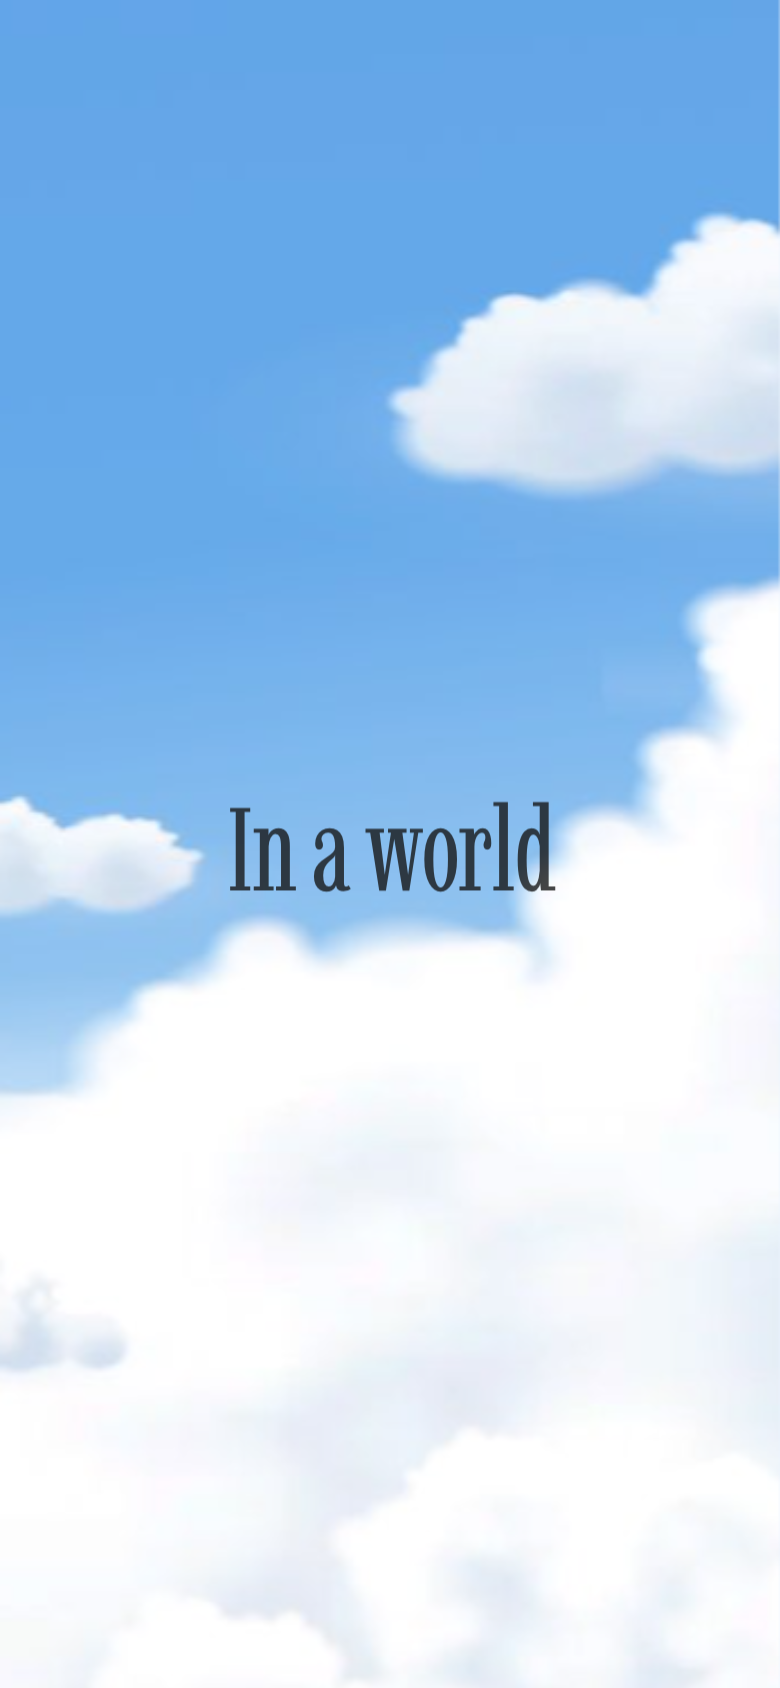
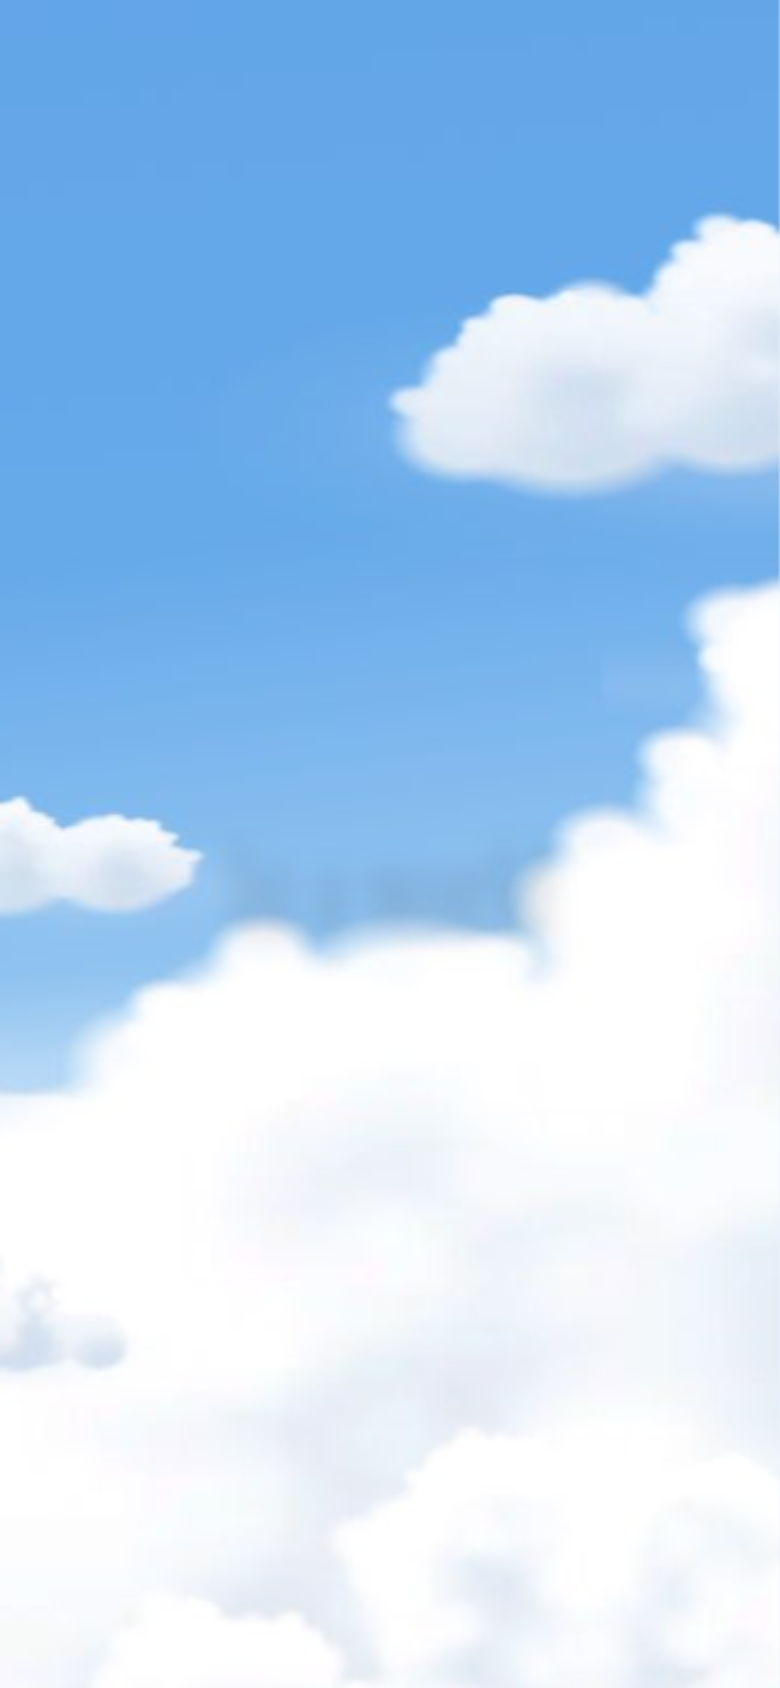
Intro text: on-scroll reveal with fade, rise and blur

Changed region(s): [[0.4, 0.4621, 0.7077, 0.5545], [0.2769, 0.4621, 0.3692, 0.5545]]

diff --git a/src/styles/sections/intro.css b/src/styles/sections/intro.css
@@ -79,7 +79,11 @@
 }
 
 @keyframes intro-fade-in { from { opacity: 0; } to { opacity: 1; } }
-@keyframes intro-rise-in { from { opacity: 0; transform: translateY(var(--shift-intro-part)); } to { opacity: 1; transform: none; } }
+@keyframes intro-part-in {
+  from { opacity: 0; transform: translateY(var(--shift-intro-part)); filter: blur(var(--blur-intro-part)); }
+  to { opacity: 1; transform: translateY(0); filter: blur(0); }
+}
+@keyframes intro-part-out { from { opacity: 1; } to { opacity: 0; } }
 @keyframes hint-wheel { 0% { transform: translateY(0); opacity: 1; } 70% { transform: translateY(var(--size-hint-travel)); opacity: 0; } 100% { transform: translateY(0); opacity: 0; } }
 @keyframes hint-swipe { 0% { transform: translateY(var(--size-hint-travel)); opacity: 0; } 30% { opacity: 1; } 100% { transform: translateY(0); opacity: 0; } }
 
@@ -90,13 +94,14 @@
 
   .js .intro__lines { display: grid; width: 100%; font-size: var(--text-display); }
 
-  /* Every part sits in the same spot. scroll.js fades them in and out with scroll;
-     until it runs, only the first part shows. */
-  .js .intro__part { grid-area: 1 / 1; align-self: center; opacity: 0; will-change: transform, opacity; }
-  .js .intro__part:first-child { opacity: 1; }
+  /* Every part sits in the same spot and is hidden until intro.js marks it.
+     is-in: the reveal (fade, rise, blur clearing). is-out: a quick fade as it gives way. */
+  .js .intro__part { grid-area: 1 / 1; align-self: center; opacity: 0; will-change: transform, opacity, filter; }
+  .js .intro__part.is-in { animation: intro-part-in var(--duration-part-in) var(--ease-enter) var(--delay-part-in) both; }
+  .js .intro__part.is-out { animation: intro-part-out var(--duration-part-out) var(--ease-exit) both; }
 
-  /* On load the text block eases in once */
-  .js .intro__lines { animation: intro-rise-in var(--duration-part-in) var(--ease-enter) var(--delay-part-in) backwards; }
+  /* Invisible markers, one per part, that intro.js watches to know which part is due */
+  .intro__step { position: absolute; left: 0; width: 100%; pointer-events: none; }
 
   /* Hint fades in after part 1 on a first visit */
   .js:not(.intro-seen) .intro__hint-inner {

diff --git a/src/intro.js b/src/intro.js
@@ -1,4 +1,4 @@
-// Intro screen behavior. The text parts are switched by scroll.js and animated by intro.css.
+// Intro screen behavior. This file decides which text part shows; intro.css animates it.
 // This file handles: hiding the hint on first scroll, the one-time idle dip,
 // remembering that the intro was seen, and what changes once the hero is reached.
 import gsap from 'gsap';
@@ -29,6 +29,39 @@ export function initIntro() {
     root.style.scrollBehavior = 'auto';
     window.scrollTo(0, hero.offsetTop);
     root.style.scrollBehavior = '';
+  }
+
+  // Intro text: one part at a time, revealed when its stretch of the intro reaches the middle of the screen.
+  // The intro is split into one invisible "step" per part. An IntersectionObserver watches a thin
+  // line across the middle of the screen; whichever step crosses it decides the visible part.
+  // The reveal itself is a CSS animation (intro.css) and replays every time a part comes back.
+  const intro = document.getElementById('intro');
+  const parts = Array.from(document.querySelectorAll('.intro__part'));
+  if (intro && parts.length && !reduced) {
+    let current = -1;
+    const showPart = (index) => {
+      if (index === current) return;
+      parts.forEach((part, i) => {
+        part.classList.toggle('is-out', i === current);
+        part.classList.toggle('is-in', i === index);
+      });
+      current = index;
+    };
+    const stepObserver = new IntersectionObserver((entries) => {
+      entries.forEach((entry) => {
+        if (entry.isIntersecting) showPart(Number(entry.target.dataset.part));
+      });
+    }, { rootMargin: '-50% 0px -50% 0px', threshold: 0 });
+    parts.forEach((part, i) => {
+      const step = document.createElement('div');
+      step.className = 'intro__step';
+      step.dataset.part = String(i);
+      step.style.top = `${(100 / parts.length) * i}%`;
+      step.style.height = `${100 / parts.length}%`;
+      step.setAttribute('aria-hidden', 'true');
+      intro.appendChild(step);
+      stepObserver.observe(step);
+    });
   }
 
   // Hero reached: show the nav, hide "Skip intro", remember the visit.

diff --git a/src/scroll.js b/src/scroll.js
@@ -89,42 +89,8 @@ export function setCameraNudge(value) {
   applyCamera();
 }
 
-// Intro text: four parts, one visible at a time, tied to scroll distance.
-// Each part owns one equal stretch of the pinned scroll: it rises in over the first 28%,
-// rests, then drifts up and fades slowly over the last 42%. The next part only starts
-// once the old one is gone, so a part cannot be skipped without being seen leaving.
-const PART = { in: 0.28, outStart: 0.58, out: 0.42, shift: 22, scale: 0.98 };
-
-// Text and camera trail the scrollbar by the same half second, so they move as one.
+// The camera trails the scrollbar by half a second, which gives it some weight.
 const SMOOTHING = 0.5;
-
-function buildIntroText() {
-  const parts = gsap.utils.toArray('.intro__part');
-  if (!parts.length) return;
-  const timeline = gsap.timeline({
-    defaults: { overwrite: false },
-    // the trailing means a fast flick still plays each change
-    scrollTrigger: { trigger: '#intro', start: 'top top', end: 'bottom bottom', scrub: SMOOTHING },
-  });
-  parts.forEach((part, i) => {
-    const last = i === parts.length - 1;
-    if (i === 0) {
-      gsap.set(part, { opacity: 1 });
-    } else {
-      timeline.fromTo(part,
-        { opacity: 0, yPercent: PART.shift, scale: PART.scale },
-        { opacity: 1, yPercent: 0, scale: 1, duration: PART.in, ease: 'power2.out' },
-        i + 0.02);
-    }
-    if (!last) {
-      timeline.to(part,
-        { opacity: 0, yPercent: -PART.shift, scale: PART.scale, duration: PART.out, ease: 'power1.in' },
-        i + PART.outStart);
-    }
-  });
-  // Pad the timeline so the last part rests until the intro unpins.
-  timeline.to({}, { duration: 0.001 }, parts.length - 0.001);
-}
 
 export function initScroll() {
   // Reduced motion: no scroll-linked animation at all. The page scrolls normally.
@@ -132,7 +98,6 @@ export function initScroll() {
 
   window.addEventListener('pointermove', onPointerMove, { passive: true });
 
-  buildIntroText();
   {
     SEGMENTS.forEach((segment, i) => {
       const update = (self) => {

diff --git a/src/styles/tokens.css b/src/styles/tokens.css
@@ -59,11 +59,12 @@
   --duration-fast: 150ms;
   --duration-base: 300ms;
   --duration-slow: 600ms;
-  --duration-part-in: 500ms;               /* intro text easing in on load */
-  --delay-part-in: 100ms;
+  --duration-part-in: 800ms;               /* an intro part being revealed */
+  --delay-part-in: 250ms;                  /* waits for the old part to fade */
+  --duration-part-out: 200ms;              /* the old part giving way */
   --duration-crossfade: 400ms;             /* static image to live scene */
   --duration-intro-hint-fade: 250ms;
-  --duration-intro-hint-delay: 1400ms;     /* text arrival (0.1 + 0.5 s) + 0.8 s */
+  --duration-intro-hint-delay: 1850ms;     /* part 1 reveal (0.25 + 0.8 s) + 0.8 s */
   --duration-hint-loop: 1600ms;            /* wheel dot / swipe loop */
   --ease-standard: cubic-bezier(0.2, 0, 0, 1);
   --ease-enter: cubic-bezier(0.22, 1, 0.36, 1);    /* fast start, soft landing */
@@ -88,7 +89,8 @@
   --measure-title: 16ch;
   --content-max: 1120px;
   --length-intro-scroll: 440vh;            /* scroll distance while the intro is pinned (4 parts x 110vh) */
-  --shift-intro-part: 0.25em;              /* how far a part travels in and out */
+  --shift-intro-part: 30px;                /* how far a part rises as it is revealed */
+  --blur-intro-part: 8px;                  /* blur that clears during the reveal */
   --size-scene-fallback: 200%;             /* image is taller than the screen so it can slide with scroll */
 
   /* Breakpoints (documentation only: CSS variables cannot be used inside @media) */

diff --git a/design/page-spec.md b/design/page-spec.md
@@ -17,10 +17,11 @@ Scene: sky with big clouds close to the camera. The clouds drift, and move up th
 - Scroll hint: mouse icon + "Scroll to start the game". Phone: swipe icon + "Swipe up to start the game".
 
 Motion:
-- On load: part 1 eases in. Then the page waits.
+- On load: part 1 is revealed the same way. Then the page waits.
 - Trigger: scroll only (wheel, swipe, arrow keys, Space). No timer advances the page.
-- The intro stays pinned while the reader scrolls through four equal steps of 1.1 screens each. Only one part is visible at a time.
-- Part change follows the scroll, not a timer. Within its step a part rises in (first 28%), rests, then drifts up and fades slowly (last 42%). The next part starts only when the old one is gone. Scrolling up plays it backwards. The text and the camera trail the scrollbar by 0.5 s so a fast flick still shows every change.
+- The intro stays pinned while the reader scrolls through 4.4 screens. Only one part is visible at a time.
+- Each part owns a quarter of the intro. When its quarter reaches the middle of the screen, the part is revealed: it fades in, rises 30px and comes out of an 8px blur over 0.8 s. The part before it fades out in 0.2 s first.
+- The reveal is timed, not tied to scroll position, and replays every time a part comes back, in either scroll direction.
 - The camera descends through the clouds with scroll progress. Scrolling up reverses it.
 - Hint fades in 0.8 s after part 1, wheel dot loops, hides on first scroll.
 - After 6 s idle: the camera dips so the hero headline peeks above the bottom edge, then settles back.

diff --git a/design/decisions.md b/design/decisions.md
@@ -57,3 +57,8 @@
 - Scene crossfade 0.6 s to 0.4 s.
 - Button: hover lift and press feedback, 0.1 s. New tokens --duration-micro, --duration-crossfade, --shift-button-hover, --scale-button-press.
 - Kept on purpose: scroll-tied part changes (ease-out in, ease-in out), the swoop curves, the 4.4-screen pinned scroll, the hint loop.
+
+## 2026-11-16 · Intro text: on-scroll reveal
+- The scroll-tied part changes are replaced by a timed reveal (animation-on-scroll skill): fade, 30px rise and an 8px blur clearing over 0.8 s, replaying every time a part comes back. The old part fades out in 0.2 s first.
+- Built with plain CSS keyframes and an IntersectionObserver in intro.js, not the skill's Tailwind classes, because the project has no Tailwind.
+- Trade-off accepted: a fast scroll can pass a part before its reveal finishes again. Animated blur on large text is also the most expensive effect on the page.
